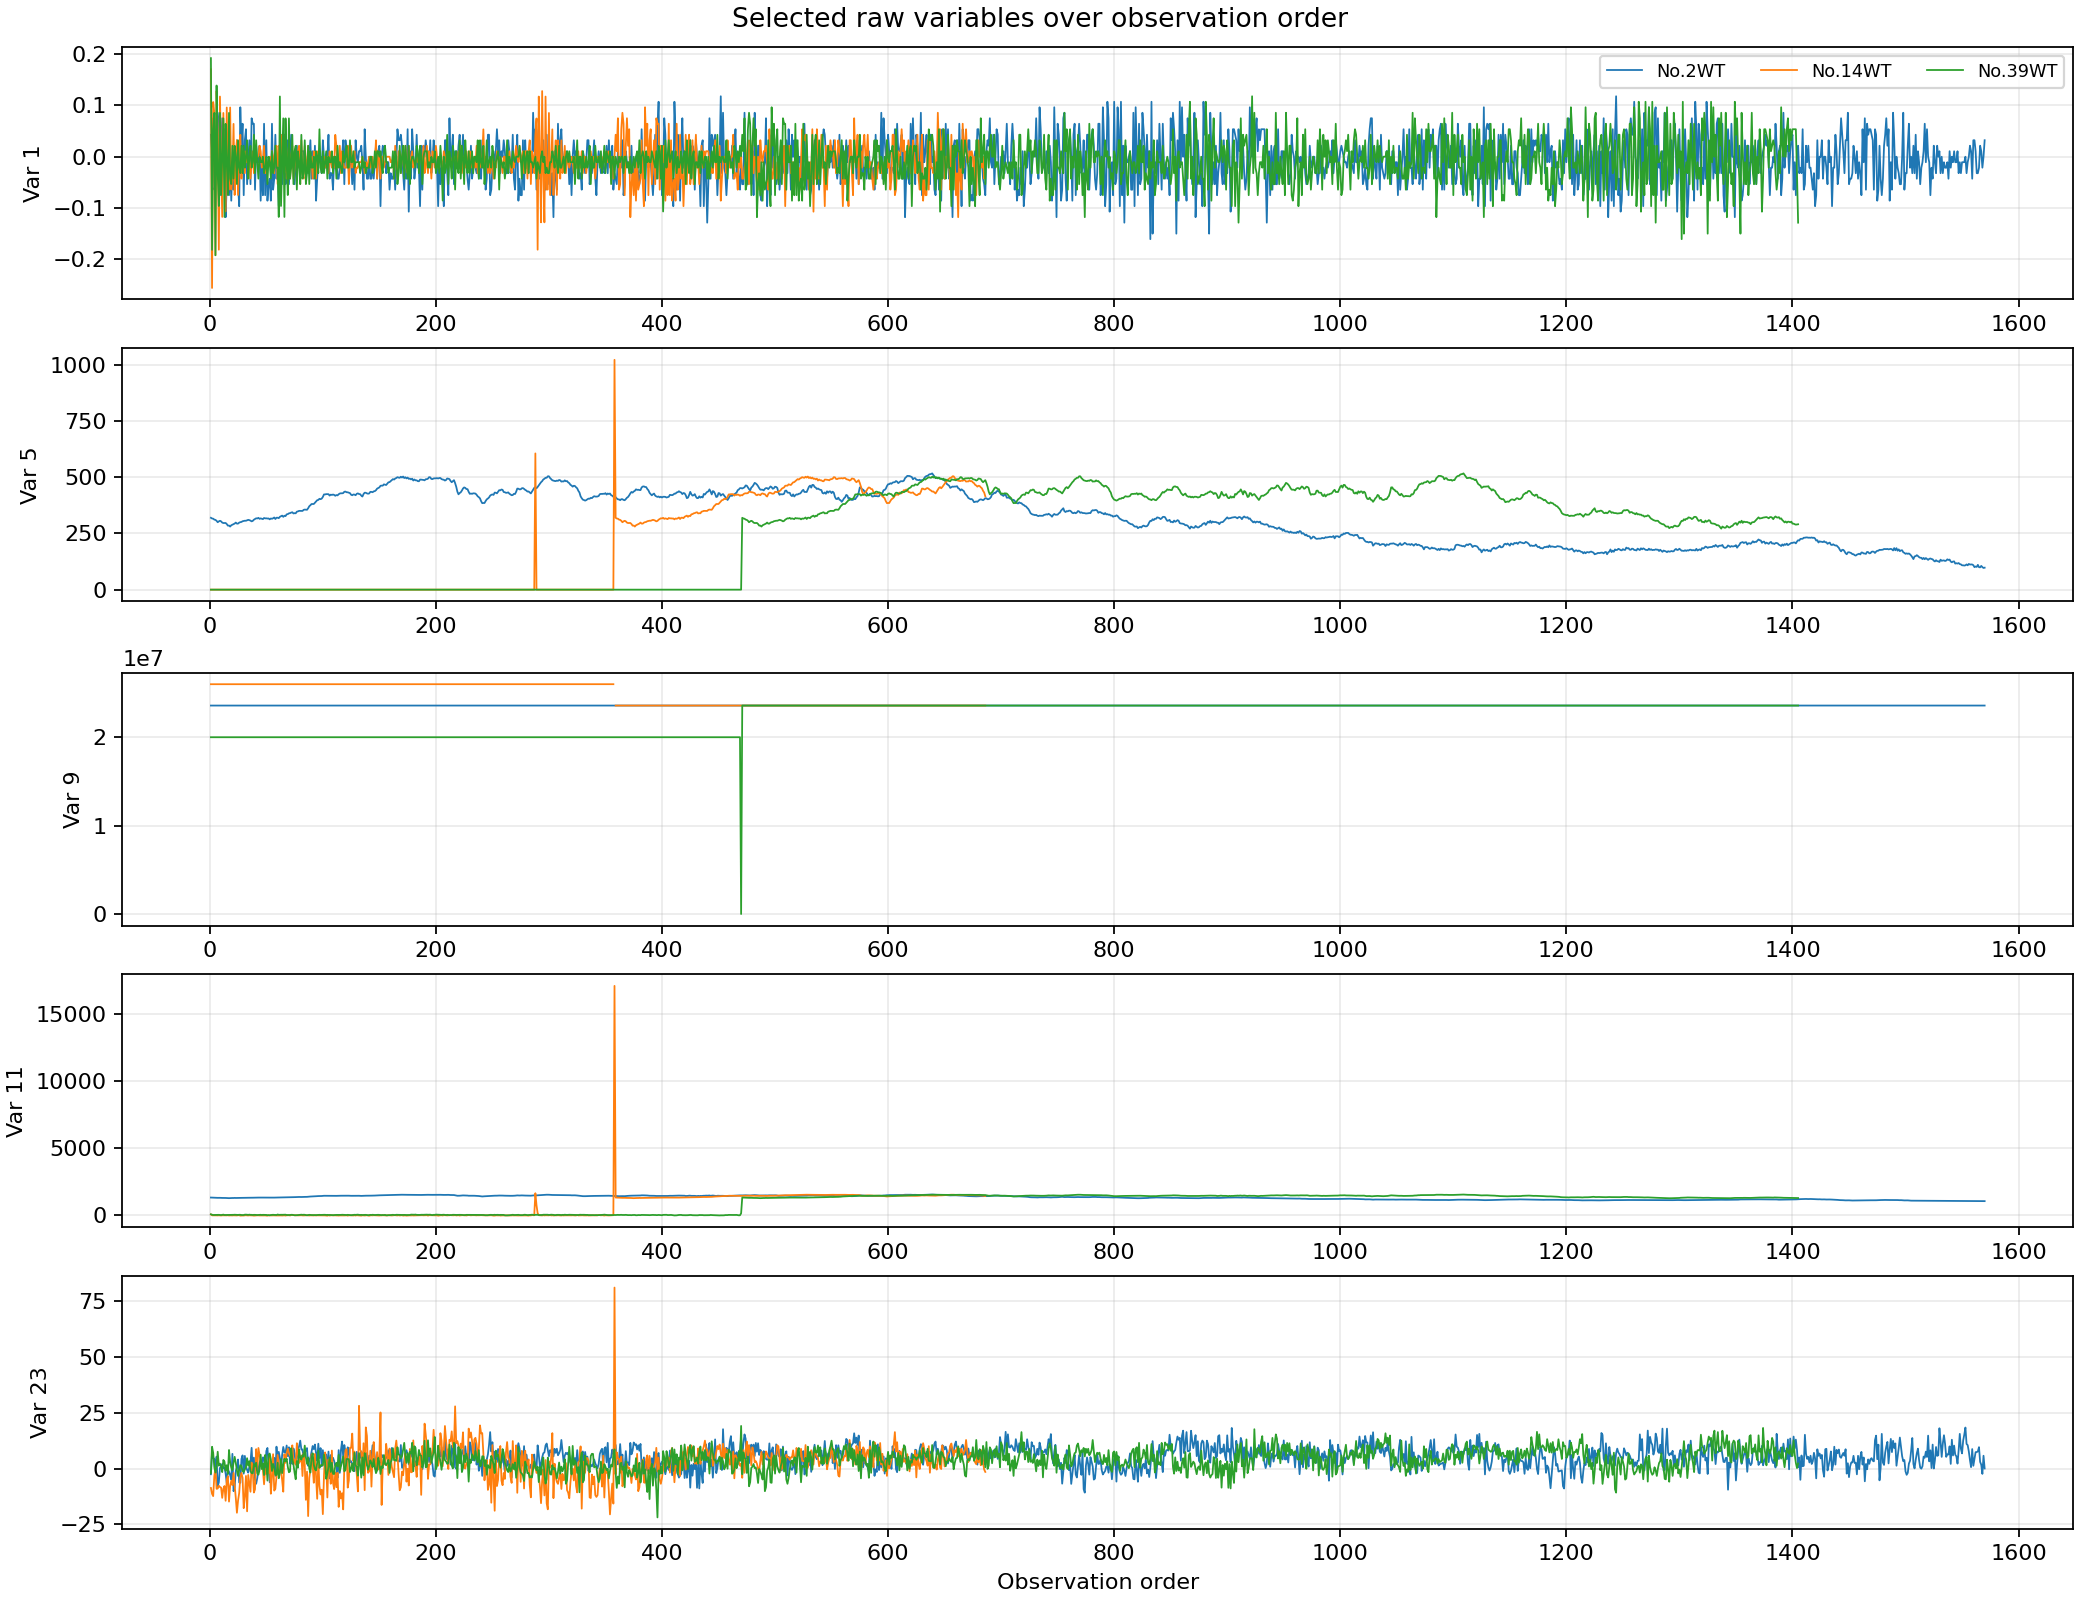
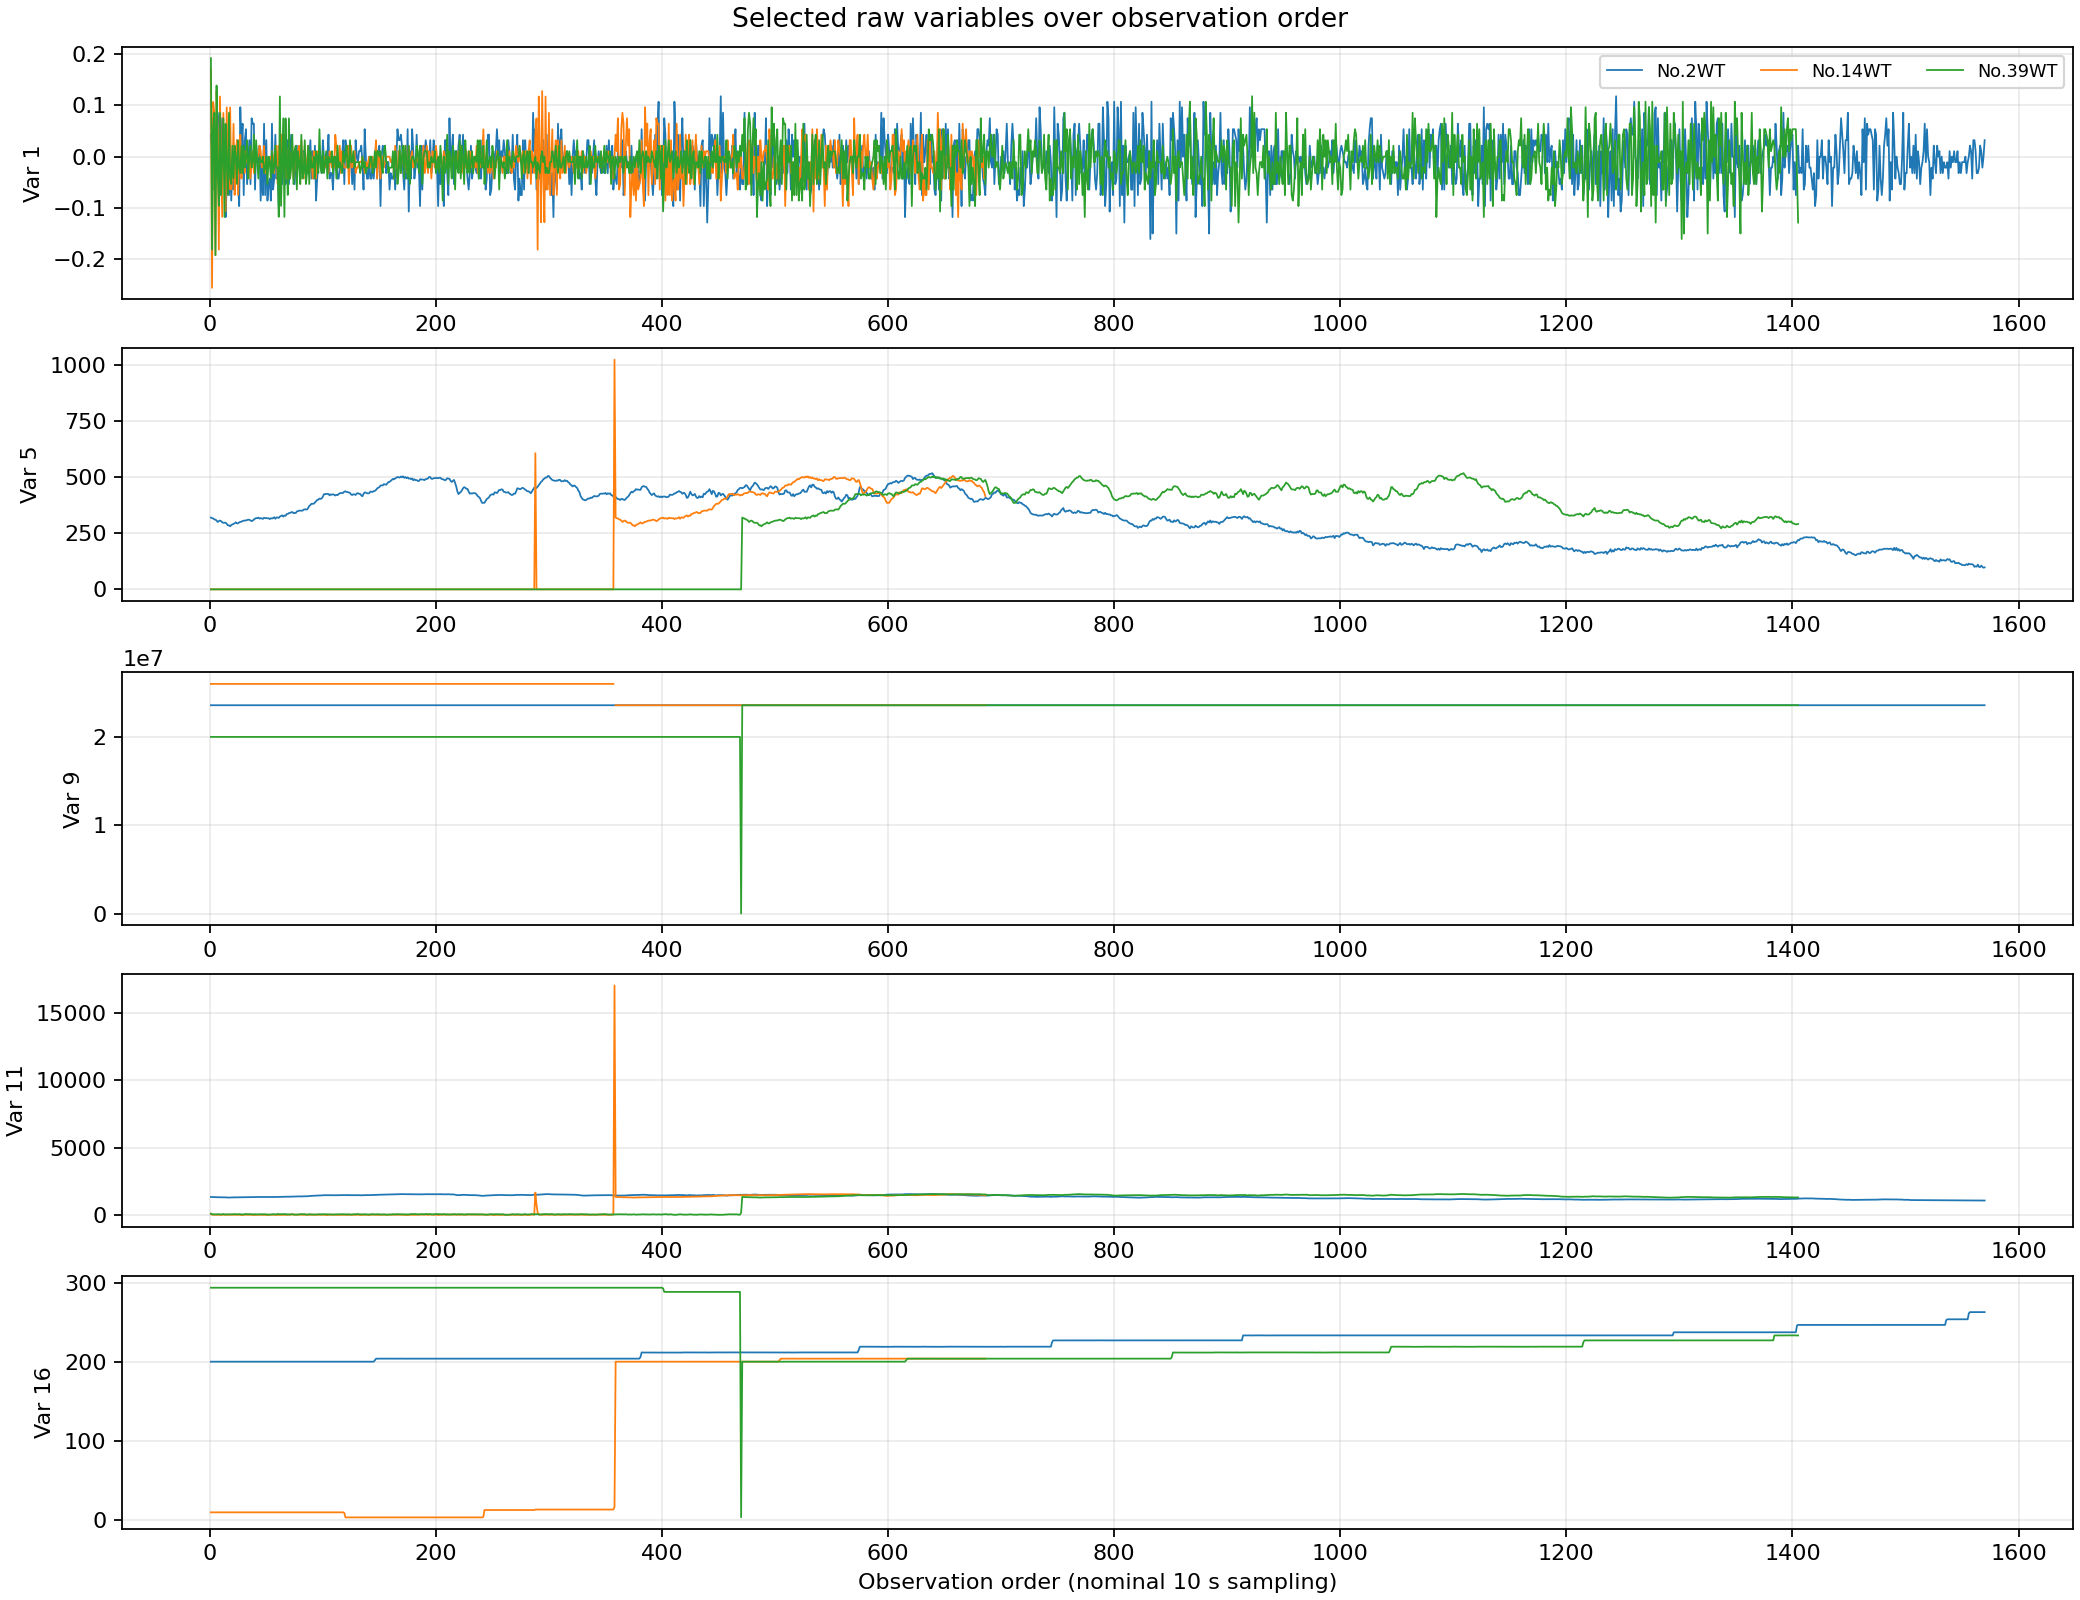
Improve data challenges

diff --git a/src/inspect_wind_turbine_data.py b/src/inspect_wind_turbine_data.py
@@ -2,6 +2,12 @@
 
 This script reports raw-data challenges and creates a few simple raw-data
 plots. It does not perform imputation, scaling, centering, PCA, or modelling.
+
+Dataset context (from the project description): the SCADA measurements are
+nominally recorded every 10 seconds and ordered sequentially. There is no
+timestamp column, so continuity and synchronization between turbines cannot
+be verified. WT2 is healthy and the other turbines develop faults. Variable
+names and their physical meanings are not supplied.
 """
 
 from pathlib import Path
@@ -19,7 +25,14 @@ DATA_FILE = PROJECT_DIR / "resources" / "wind_turbine_fault_diagnosis_data.xlsx"
 OUTPUT_DIR = PROJECT_DIR / "outputs"
 PCA_CANDIDATES = ["No.2WT", "No.14WT", "No.39WT"]
 COMMON_COLUMNS = list(range(1, 28))
-PLOT_COLUMNS = [1, 5, 9, 11, 23]
+PLOT_COLUMNS = [1, 5, 9, 11, 16]
+
+# Nominal SCADA sampling interval, used only for reporting the time base.
+SAMPLING_INTERVAL_SECONDS = 10
+
+# Variables highlighted for cautious interpretation without altering them.
+LOW_RELATIVE_VARIATION_VARIABLES = [9]
+REGIME_VARIABLES = [5, 11, 16]
 
 
 def main() -> None:
@@ -119,6 +132,65 @@ def main() -> None:
     print("Remove variable 28 from No.2WT so all candidate X matrices have 27 columns.")
     print("No.14WT column 9 remains missing and must be handled before PCA.")
 
+    # Explicit summary of the data challenges required by the assignment.
+    # These are reported for the write-up only; no data is altered here.
+    print("\nData challenges summary")
+
+    # (a) The rows are sequential SCADA observations with a nominal 10-second
+    # interval. Without timestamps, elapsed duration, gaps and synchronization
+    # between turbines cannot be checked directly.
+    for name in PCA_CANDIDATES:
+        n_obs = datasets[name].shape[0]
+        print(
+            f"{name}: {n_obs} sequential observations, nominally recorded "
+            f"every {SAMPLING_INTERVAL_SECONDS} s."
+        )
+    print(
+        "No explicit timestamp column is supplied. Recording gaps and "
+        "synchronization between turbines therefore cannot be determined."
+    )
+
+    # (b) Variable 9 has a very large offset and little relative variation in
+    # the healthy turbine. Its meaning is unknown, so it is retained rather
+    # than labelled defective or removed.
+    healthy = datasets[PCA_CANDIDATES[0]]
+    for variable in LOW_RELATIVE_VARIATION_VARIABLES:
+        mean = healthy[variable].mean()
+        std = healthy[variable].std(ddof=1)
+        value_range = healthy[variable].max() - healthy[variable].min()
+        relative_std = std / abs(mean) if mean else float("inf")
+        print(
+            f"Variable {variable} in {PCA_CANDIDATES[0]} has a large offset "
+            f"and low relative variation: mean={mean:.3g}, std={std:.3g}, "
+            f"range={value_range:.3g}, relative std={relative_std:.2e}, "
+            f"unique values={healthy[variable].nunique()}. It is retained, "
+            "but its autoscaled PCA loading should be interpreted cautiously."
+        )
+
+    # (c) The raw plots show several operating levels in variables 5, 11 and
+    # 16. Simple maxima and upper quantiles also reveal isolated extremes in
+    # No.14WT variables 5 and 11; these observations are only documented here.
+    print(
+        f"Variables with multiple levels or operating regimes in the raw "
+        f"plots: {REGIME_VARIABLES}. Their unknown physical meanings prevent "
+        "a more specific interpretation at this stage."
+    )
+    for variable in REGIME_VARIABLES:
+        ranges = {
+            name: float(datasets[name][variable].max() - datasets[name][variable].min())
+            for name in PCA_CANDIDATES
+            if variable in datasets[name].columns
+        }
+        formatted = ", ".join(f"{name}={value:.3g}" for name, value in ranges.items())
+        print(f"  variable {variable} raw range per turbine: {formatted}")
+    for variable in [5, 11]:
+        data = datasets["No.14WT"][variable].dropna()
+        print(
+            f"  No.14WT variable {variable}: maximum={data.max():.3g}, "
+            f"99th percentile={data.quantile(0.99):.3g}; the maximum is an "
+            "obvious isolated extreme value."
+        )
+
     # Create only the representative distribution and sequence plots needed
     # to understand the raw measurements before PCA.
     create_plots(datasets)
@@ -164,7 +236,7 @@ def create_plots(datasets: dict[str, pd.DataFrame]) -> None:
             )
         axis.set_ylabel(f"Var {column}")
         axis.grid(alpha=0.25)
-    axes[-1].set_xlabel("Observation order")
+    axes[-1].set_xlabel("Observation order (nominal 10 s sampling)")
     axes[0].legend(fontsize=8, ncol=3)
     fig.suptitle("Selected raw variables over observation order")
     fig.savefig(OUTPUT_DIR / "step2_observation_order.png", dpi=160)
